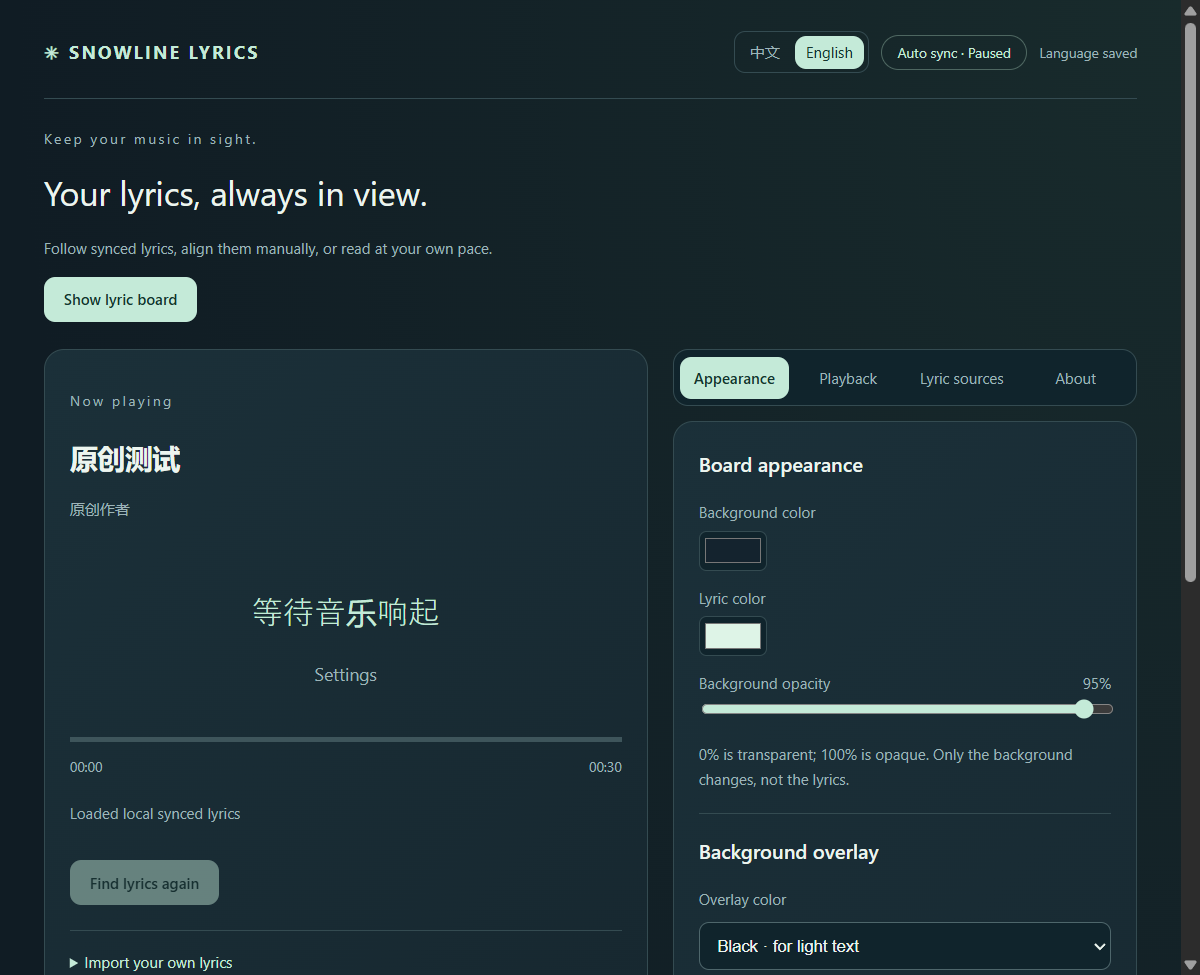
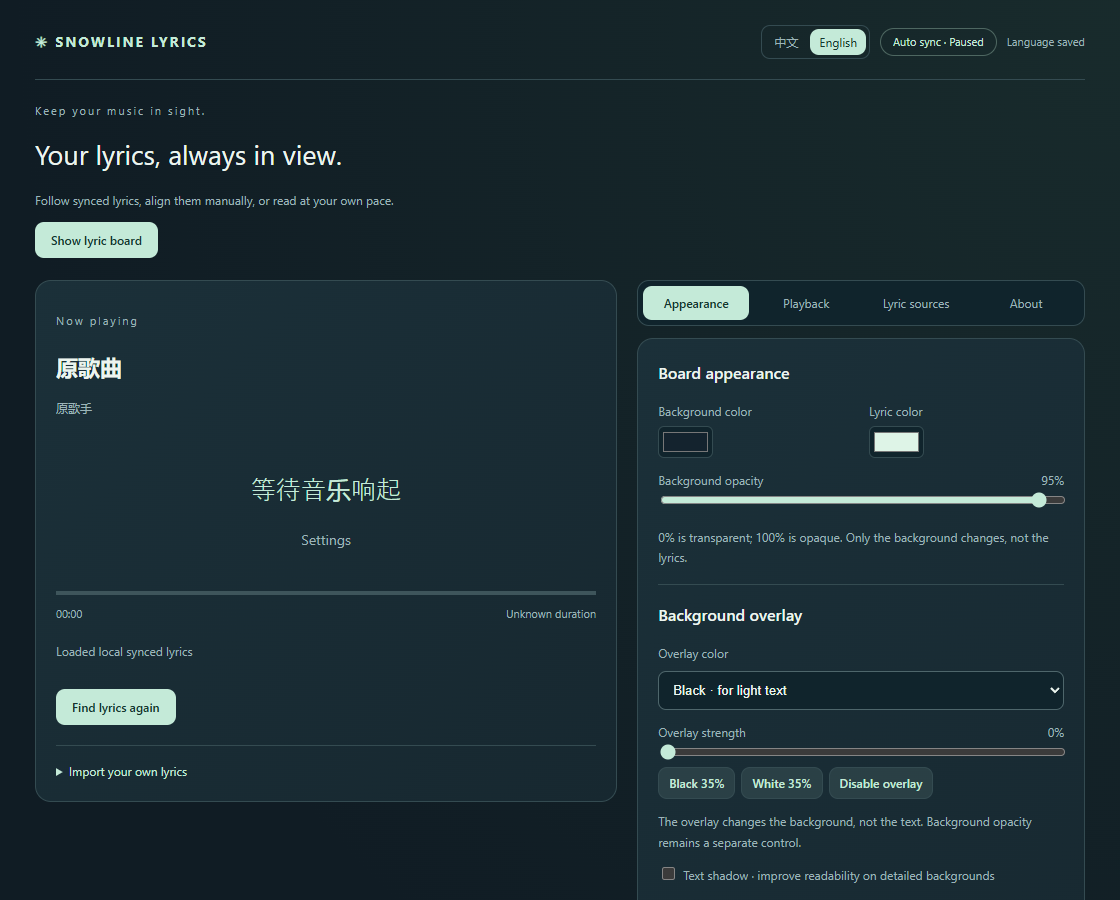
docs: prepare bilingual v0.6.0 release notes and layout preview

diff --git a/docs/RELEASE-NOTES.md b/docs/RELEASE-NOTES.md
@@ -1,7 +1,8 @@
 # Snowline Lyrics 0.6.0 · Preview
 
-## 中文 / English
+## 中文
 
+- 外观设置中的背景颜色与歌词颜色并排显示。
 - 在设置板顶部一键切换中文和 English，选择自动保存。
 - 歌词板不增加语言按钮，界面文案、提示和状态跟随设置；设置窗口标题及托盘菜单也同步切换。
 - 歌名、歌手、歌词和本地文件名保持原文。切换语言不重新查歌词、不重置手动计时。
@@ -11,3 +12,17 @@
 本版基于 0.5.1，保留其窗口大小、字号、样式和拖动方式。没有合入 0.5.2 / 0.5.3 的尺寸及缩放热区改动。
 
 下载 Windows 便携包后完整解压。先从托盘退出旧版，再运行 SnowlineLyrics.exe。原有图片、缓存及配置保留。
+
+
+## English
+
+- Switch between Chinese and English at the top of Settings; your choice is saved.
+- The lyric board, settings window title and tray menu follow the selected language. The board has no extra language button.
+- Song titles, artists, lyrics and local filenames stay in their original language. Switching languages preserves manual timing and lyric searches.
+- First launch follows the system language, with English as the fallback.
+- English and Chinese READMEs link to each other.
+- Background and lyric color controls now appear side by side.
+
+Based on 0.5.1, preserving its board dimensions, fonts, appearance and dragging behavior.
+
+Download and fully extract the Windows portable ZIP. Exit the previous version from its tray menu, then run `SnowlineLyrics.exe`. Existing settings, images and cached lyrics are retained. Windows WebView2 Runtime is required.

diff --git a/CHANGELOG.md b/CHANGELOG.md
@@ -1,5 +1,7 @@
 # 0.6.0
 
+- Place background and lyric color controls side by side in Settings.
+
 - Add persistent Simplified Chinese / English interface selection in settings only; board follows automatically.
 - Localize window titles, tray actions, status messages, tooltips and accessibility labels without translating song metadata or lyrics.
 - Provide English README.md and Chinese README.zh-CN.md.
